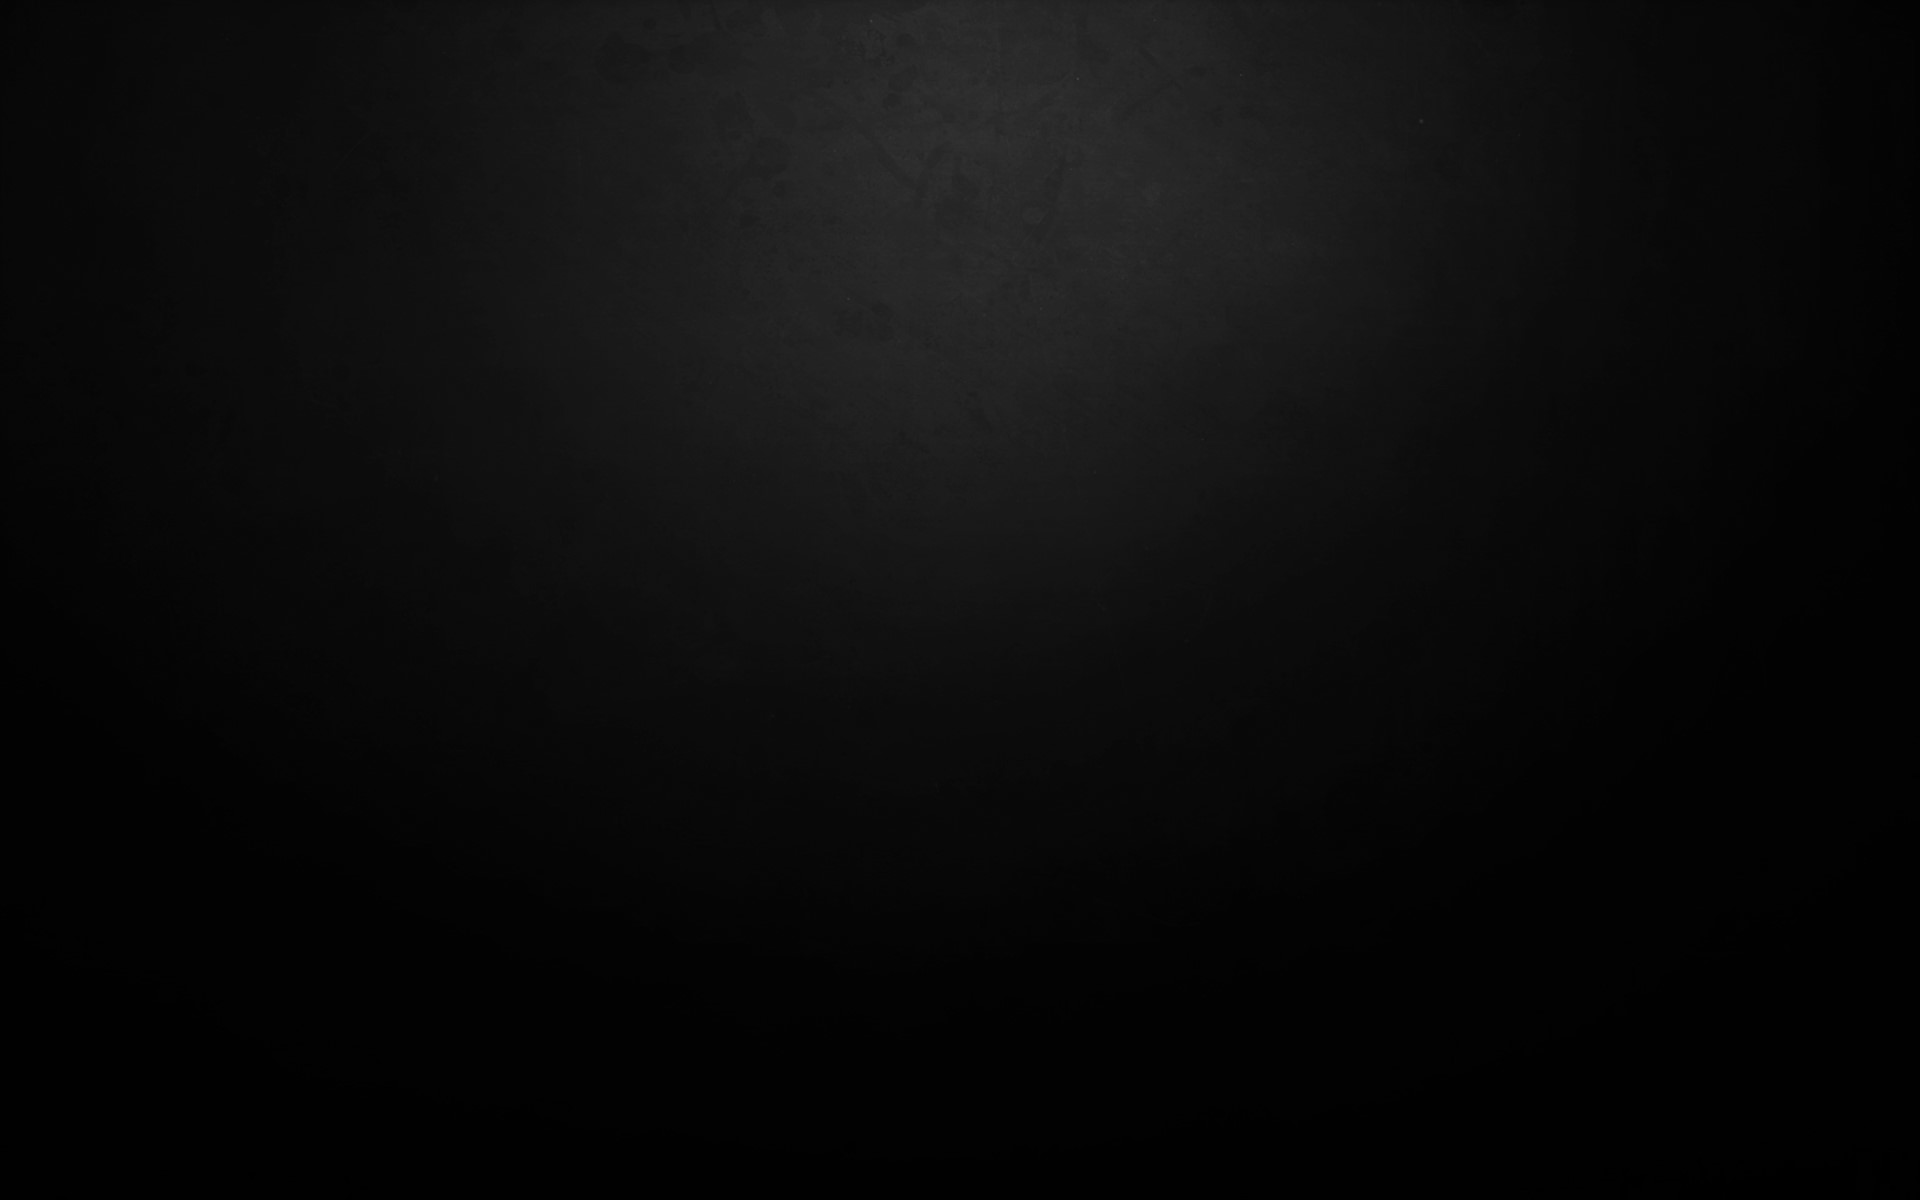
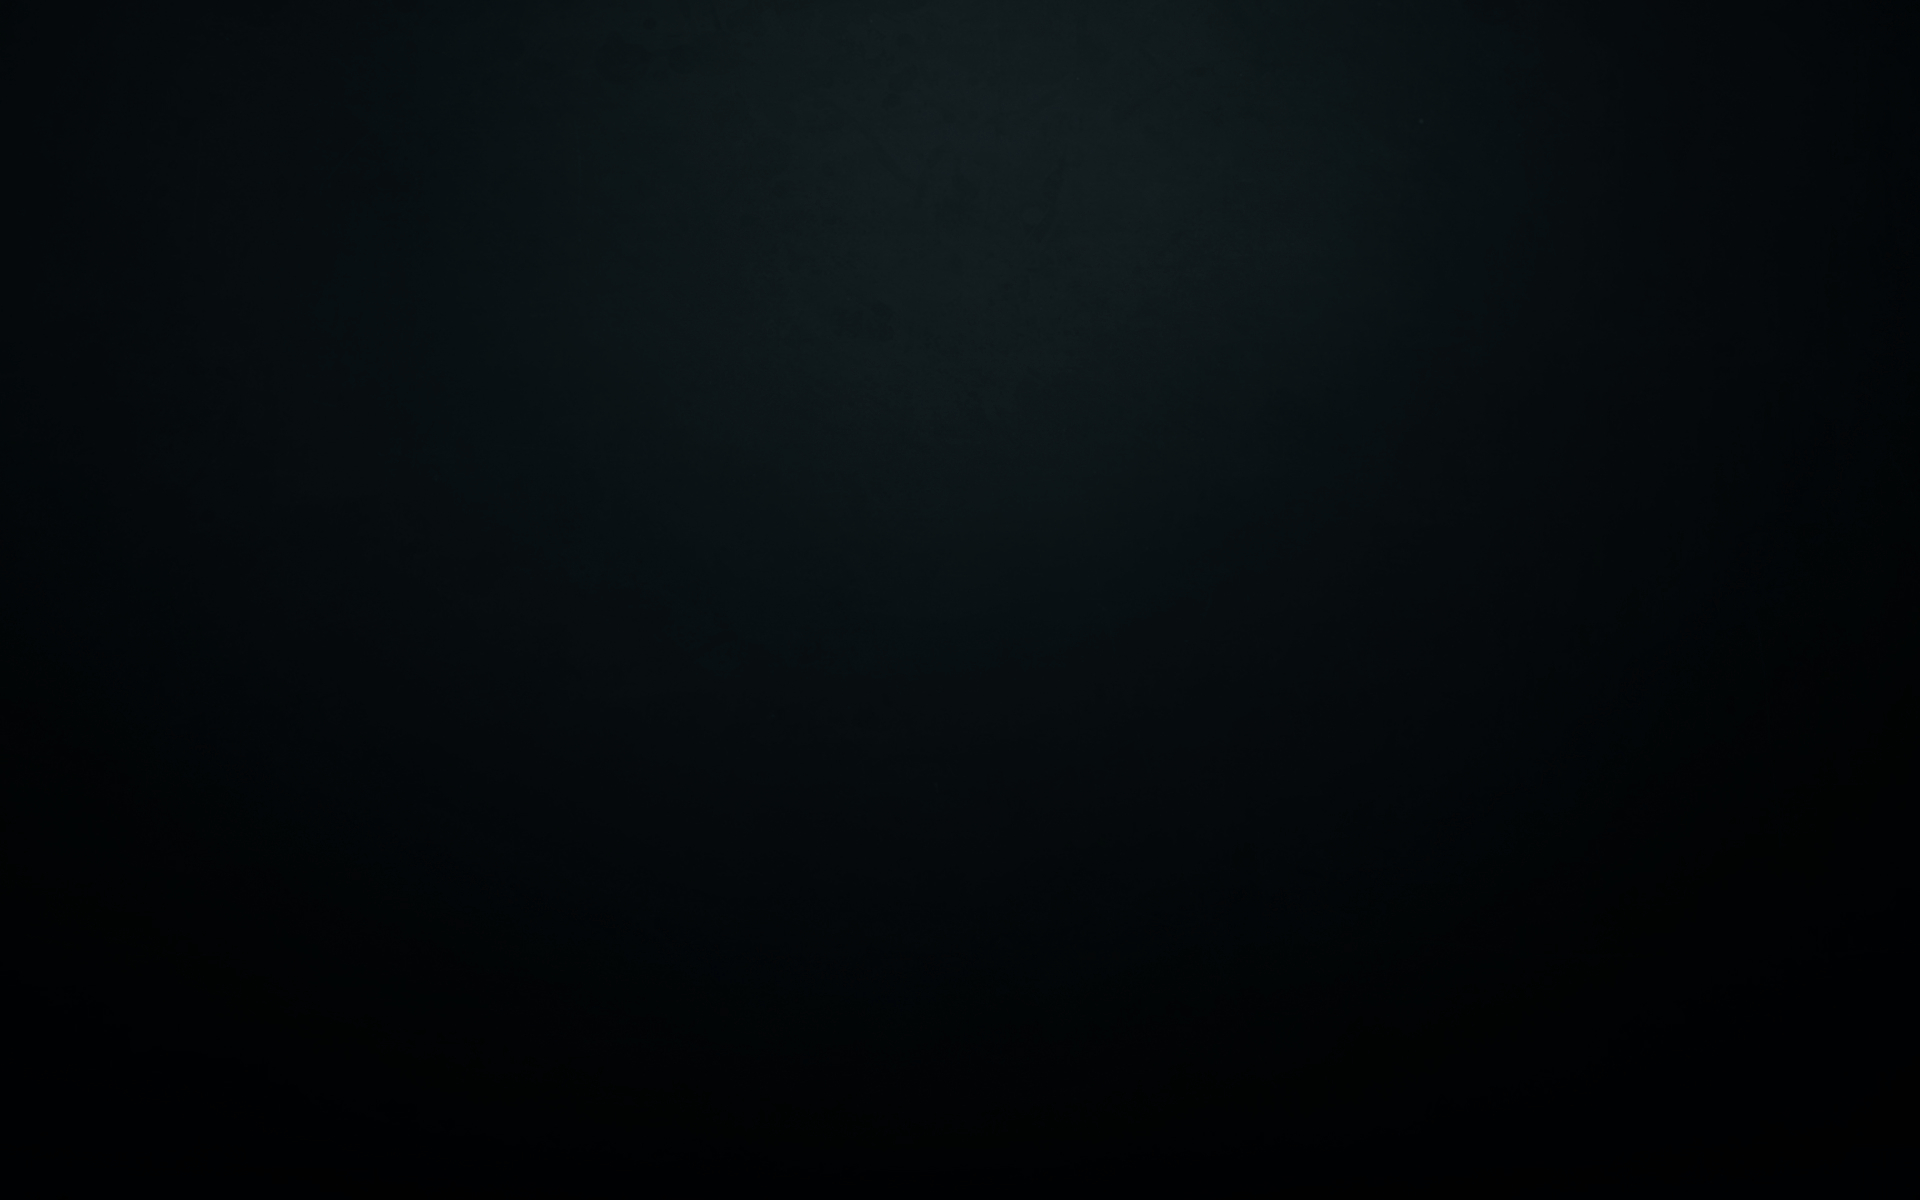
Fixed backgroun image url and added original dark_bg from old site

Changed region(s): [[0.4688, 0.0, 0.5938, 0.1542]]

diff --git a/css/custom.css b/css/custom.css
@@ -14,8 +14,7 @@ body {
     font-size: 1.3em;
     background-color: #010101;
     color: #d9d9d9;
-    background-color: #0b0b0b;
-    background-image: url("/images/dark_bg.jpg");
+    background-image: url("../images/dark_bg.jpg");
     background-size: 100%;
     background-repeat: no-repeat;
 }
